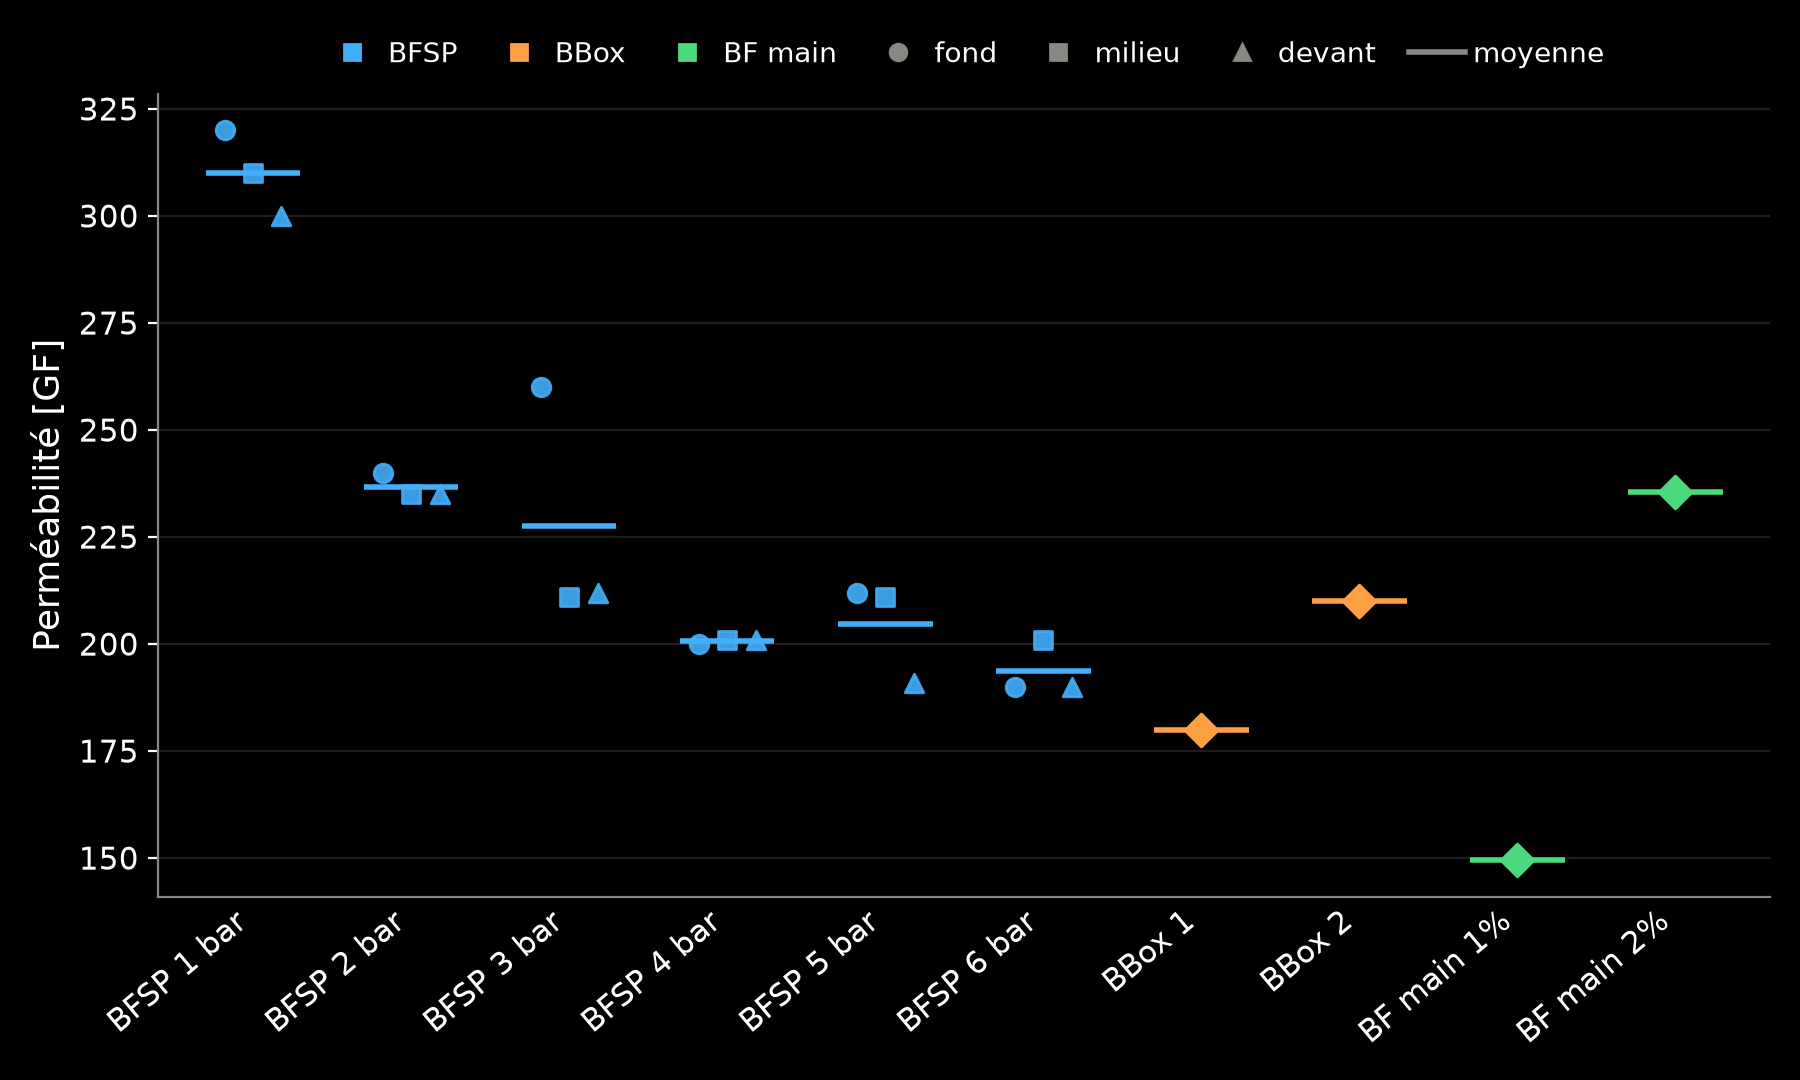
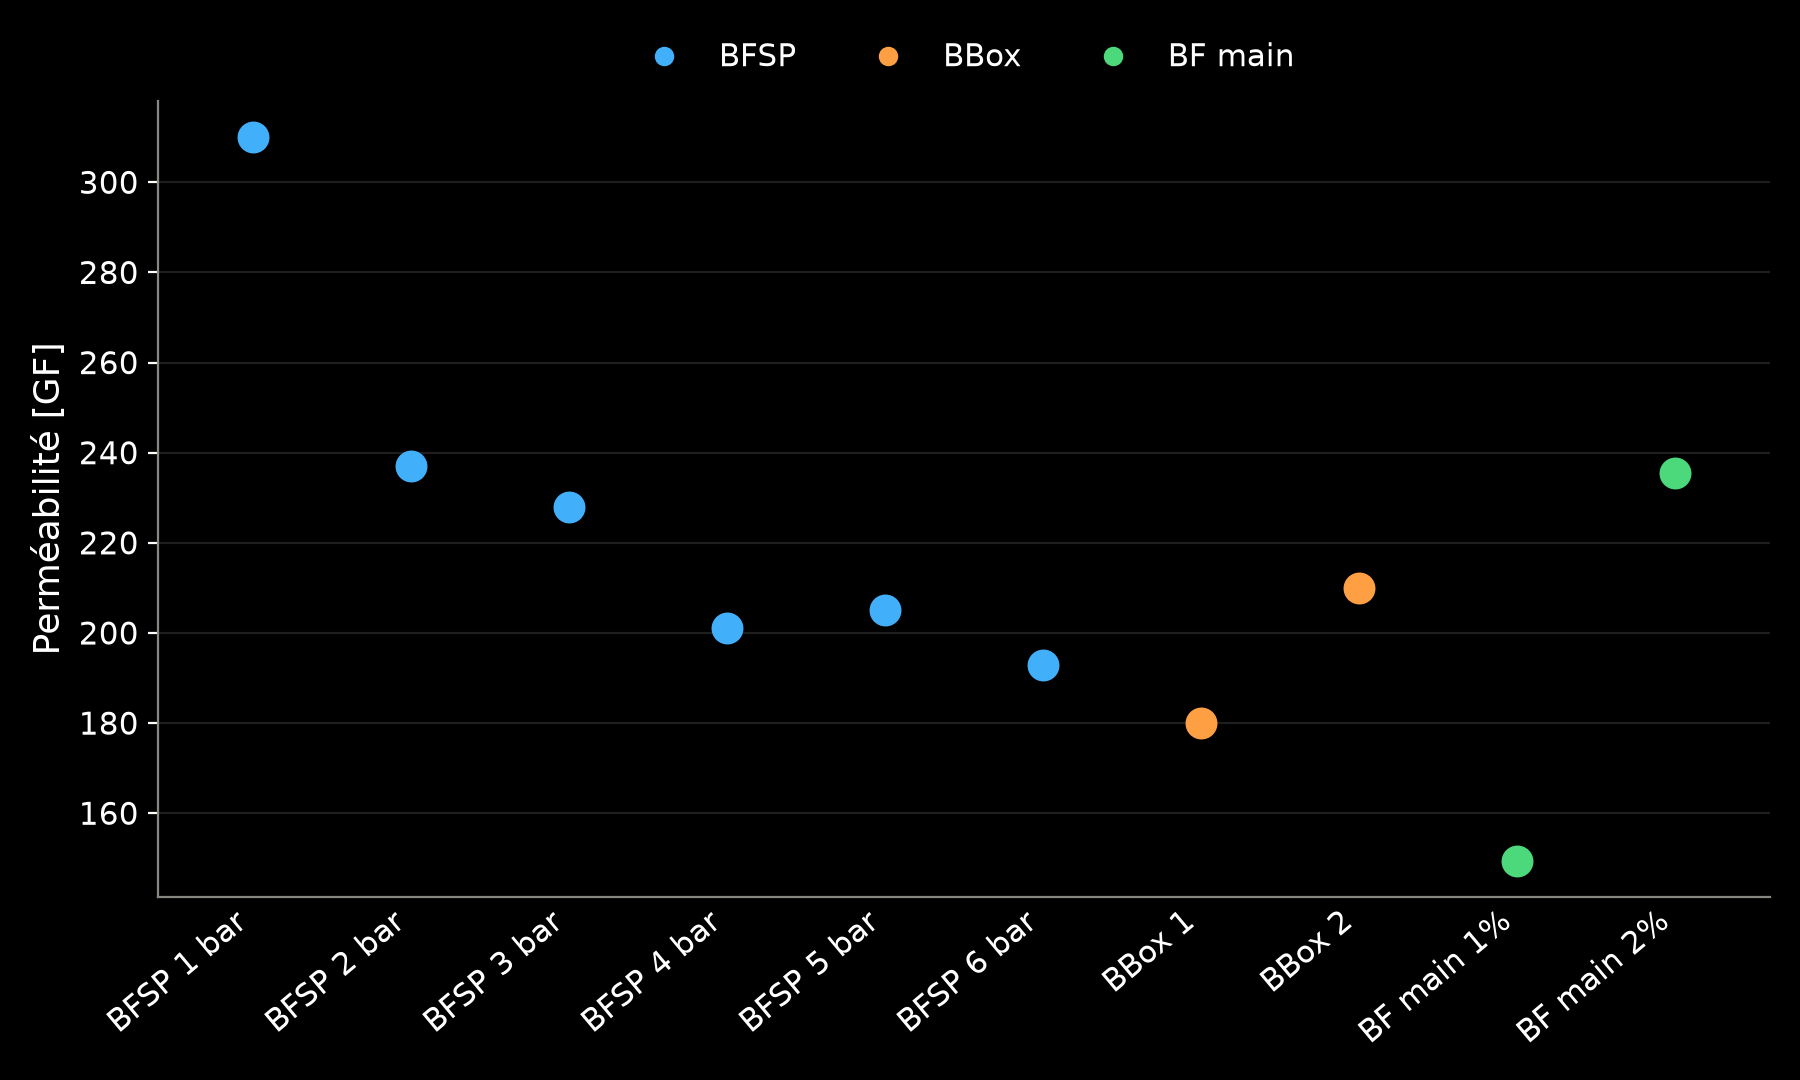
Dot-only scatterplots for tableaux 1-3, one dot per sample

diff --git a/index.html b/index.html
@@ -71,10 +71,10 @@
       <h2>TP 1</h2>
       <div class="spacer"></div>
       <ul class="names">
-        <li>[Nom 1]</li>
-        <li>[Nom 2]</li>
-        <li>[Nom 3]</li>
-        <li>[Nom 4]</li>
+        <li>Adémar BOUCHET</li>
+        <li>Antoine BEAUMERT</li>
+        <li>Bastien CHEVALLIER</li>
+        <li>Grégory CHOUEIRI</li>
         <li>[Nom 5]</li>
         <li>[Nom 6]</li>
         <li>[Nom 7]</li>
@@ -185,7 +185,7 @@
     <section>
       <section class="centered">
         <figure>
-          <img src="figures/masse_dark.png" alt="Nuage de points de la masse en grammes pour chaque échantillon, trois positions de mesure et la moyenne. BFSP de 135 à 143 g, BBox vers 149 g, BF main vers 152 g.">
+          <img src="figures/masse_dark.png" alt="Nuage de points de la masse en grammes par échantillon : BFSP 1 à 6 bar de 135 à 143 g, BBox 1 et 2 vers 149 g, BF main 1 % et 2 % vers 152 g.">
         </figure>
         <aside class="notes"><p>[...]</p></aside>
       </section>
@@ -262,7 +262,7 @@
     <section>
       <section class="centered">
         <figure>
-          <img src="figures/permeabilite_dark.png" alt="Nuage de points de la perméabilité pour chaque échantillon, trois positions de mesure et la moyenne. BFSP de 310 à 190, BBox 180 et 210, BF main 149,5 et 235,5.">
+          <img src="figures/permeabilite_dark.png" alt="Nuage de points de la perméabilité par échantillon : BFSP de 310 à 193, BBox 180 et 210, BF main 149,5 et 235,5.">
         </figure>
         <aside class="notes"><p>[...]</p></aside>
       </section>
@@ -339,7 +339,7 @@
     <section>
       <section class="centered">
         <figure>
-          <img src="figures/cisaillement_dark.png" alt="Nuage de points de la résistance au cisaillement en newtons pour BFSP 1 à 6 bar, trois positions de mesure et la moyenne, de 673 à 1161 N.">
+          <img src="figures/cisaillement_dark.png" alt="Nuage de points de la résistance au cisaillement en newtons par échantillon : BFSP de 673 à 1161, BBox 411 et 431, BF main 1834 et 5226.">
         </figure>
         <aside class="notes"><p>[...]</p></aside>
       </section>

diff --git a/scripts/plot_scatter.py b/scripts/plot_scatter.py
@@ -1,11 +1,9 @@
 """Scatterplots for Tableau 1-3 (masse, permeabilite, cisaillement), light + dark.
 
-BFSP: raw points per position (fond/milieu/devant) from data/bfsp_raw.csv, plus the mean.
-BBox / BF main: only means exist (read from the first tbl-1 / tbl-2 in index.html).
-Colour = method (BFSP, BBox, BF main), marker = position.
+One dot per sample, read from the first tbl-1 / tbl-2 / tbl-3 table in index.html
+so the slides and the plots share one source. Colour = method (BFSP, BBox, BF main).
 Writes figures/{masse,permeabilite,cisaillement}_{light,dark}.png.
 """
-import csv
 import re
 from pathlib import Path
 
@@ -17,61 +15,45 @@ from matplotlib.lines import Line2D
 root = Path(__file__).resolve().parent.parent
 html = (root / "index.html").read_text()
 
-
-def html_means(table_id):
-    t = re.search(rf'<table data-id="{table_id}">(.*?)</table>', html, re.S).group(1)
-    rows = re.findall(r"<tr[^>]*><td>(.*?)</td><td>(.*?)</td></tr>", t)
-    return {n: float(v.replace(",", ".")) for n, v in rows if re.match(r"^[\d,\.]+$", v)}
-
-
-raw = {}
-with open(root / "data" / "bfsp_raw.csv") as f:
-    for r in csv.DictReader(f):
-        raw.setdefault(r["quantity"], {})[int(r["pression"])] = {
-            p: float(r[p]) for p in ("fond", "milieu", "devant")}
-
 QUANTITIES = {
-    "masse": dict(label="Masse [g]", means=html_means("tbl-1")),
-    "permeabilite": dict(label="Perméabilité [GF]", means=html_means("tbl-2")),
-    "cisaillement": dict(label=r"$\tau_{max}$ [N]", means={}),
+    "masse": ("tbl-1", "Masse [g]"),
+    "permeabilite": ("tbl-2", "Perméabilité [GF]"),
+    "cisaillement": ("tbl-3", r"$\tau_{max}$ [N]"),
 }
-SAMPLES = ([("BFSP", f"BFSP {i} bar") for i in range(1, 7)]
-           + [("BBox", f"BBox {i}") for i in (1, 2)]
-           + [("BF main", f"BF main {i}%") for i in (1, 2)])
 COLORS = {"BFSP": "#42affa", "BBox": "#ff9f43", "BF main": "#4cd97b"}
-POS = {"fond": ("o", -0.18), "milieu": ("s", 0.0), "devant": ("^", 0.18)}
 THEMES = {
     "dark": dict(bg="#000000", fg="#ffffff", muted="#898781", grid=(1, 1, 1, 0.12)),
     "light": dict(bg="#ffffff", fg="#111111", muted="#6b6b6b", grid=(0, 0, 0, 0.12)),
 }
 
-for q, cfg in QUANTITIES.items():
-    # samples with data for this quantity, keeping order
-    pts = []  # (x, group, name, {pos: value} or None, mean)
-    for group, name in SAMPLES:
-        if group == "BFSP":
-            i = int(name.split()[1])
-            vals = raw[q][i]
-            pts.append((group, name, vals, sum(vals.values()) / 3))
-        elif name in cfg["means"]:
-            pts.append((group, name, None, cfg["means"][name]))
+
+def read_table(table_id):
+    t = re.search(rf'<table data-id="{table_id}">(.*?)</table>', html, re.S).group(1)
+    rows = re.findall(r"<tr[^>]*><td>(.*?)</td><td>(.*?)</td></tr>", t)
+    out = []
+    for name, v in rows:
+        v = v.replace(" ", "").replace(" ", "").replace(",", ".")
+        if re.fullmatch(r"[\d.]+", v):
+            out.append((name, float(v)))
+    return out
+
+
+def group_of(name):
+    return next(g for g in ("BFSP", "BBox", "BF main") if name.startswith(g))
+
+
+for q, (table_id, label) in QUANTITIES.items():
+    pts = read_table(table_id)
     for theme, c in THEMES.items():
         fig, ax = plt.subplots(figsize=(9, 5.4), dpi=200, facecolor=c["bg"])
         ax.set_facecolor(c["bg"])
-        for x, (group, name, vals, mean) in enumerate(pts):
-            col = COLORS[group]
-            if vals:
-                for p, v in vals.items():
-                    m, dx = POS[p]
-                    ax.scatter(x + dx, v, s=45, marker=m, color=col, alpha=0.9, zorder=3)
-            ax.hlines(mean, x - 0.3, x + 0.3, color=col, linewidth=2, zorder=4)
-            if not vals:
-                ax.scatter(x, mean, s=70, marker="D", color=col, zorder=3)
-        ax.set_xticks(range(len(pts)), [p[1] for p in pts], rotation=40, ha="right",
+        for x, (name, v) in enumerate(pts):
+            ax.scatter(x, v, s=110, color=COLORS[group_of(name)], zorder=3)
+        ax.set_xticks(range(len(pts)), [n for n, _ in pts], rotation=40, ha="right",
                       color=c["fg"], fontsize=11)
         ax.tick_params(axis="y", colors=c["fg"], labelsize=11)
         ax.tick_params(axis="x", length=0)
-        ax.set_ylabel(cfg["label"], color=c["fg"], fontsize=13)
+        ax.set_ylabel(label, color=c["fg"], fontsize=13)
         ax.grid(axis="y", color=c["grid"], linewidth=0.8)
         ax.set_axisbelow(True)
         for side in ("top", "right"):
@@ -79,14 +61,11 @@ for q, cfg in QUANTITIES.items():
         for side in ("left", "bottom"):
             ax.spines[side].set_color(c["muted"])
         ax.set_xlim(-0.6, len(pts) - 0.4)
-        handles = [Line2D([], [], marker="s", linestyle="", color=col, label=g)
-                   for g, col in COLORS.items() if any(p[0] == g for p in pts)]
-        handles += [Line2D([], [], marker=m, linestyle="", color=c["muted"], label=p)
-                    for p, (m, _) in POS.items()]
-        handles.append(Line2D([], [], color=c["muted"], linewidth=2, label="moyenne"))
-        leg = ax.legend(handles=handles, loc="lower center", bbox_to_anchor=(0.5, 1.0), ncol=7,
-                        frameon=False, fontsize=10, columnspacing=1.2, handletextpad=0.3, labelcolor=c["fg"])
+        handles = [Line2D([], [], marker="o", linestyle="", color=col, label=g)
+                   for g, col in COLORS.items()]
+        ax.legend(handles=handles, loc="lower center", bbox_to_anchor=(0.5, 1.0), ncol=3,
+                  frameon=False, fontsize=11, labelcolor=c["fg"])
         fig.tight_layout()
         fig.savefig(root / "figures" / f"{q}_{theme}.png", facecolor=c["bg"])
         plt.close(fig)
-    print(q, [(p[1], round(p[3], 1)) for p in pts])
+    print(q, pts)
